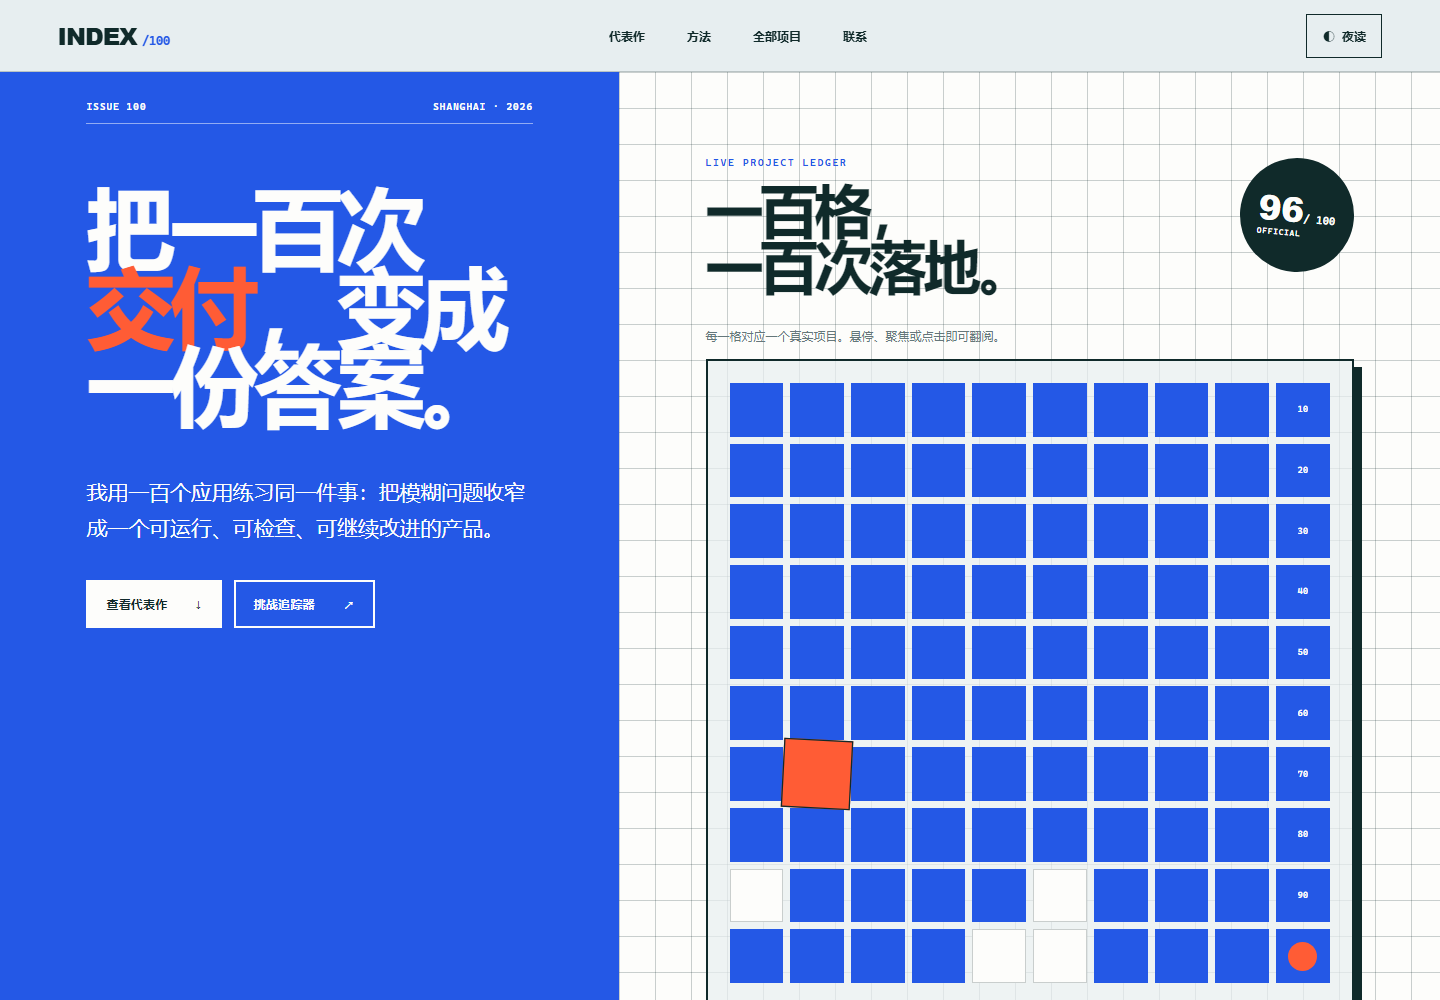
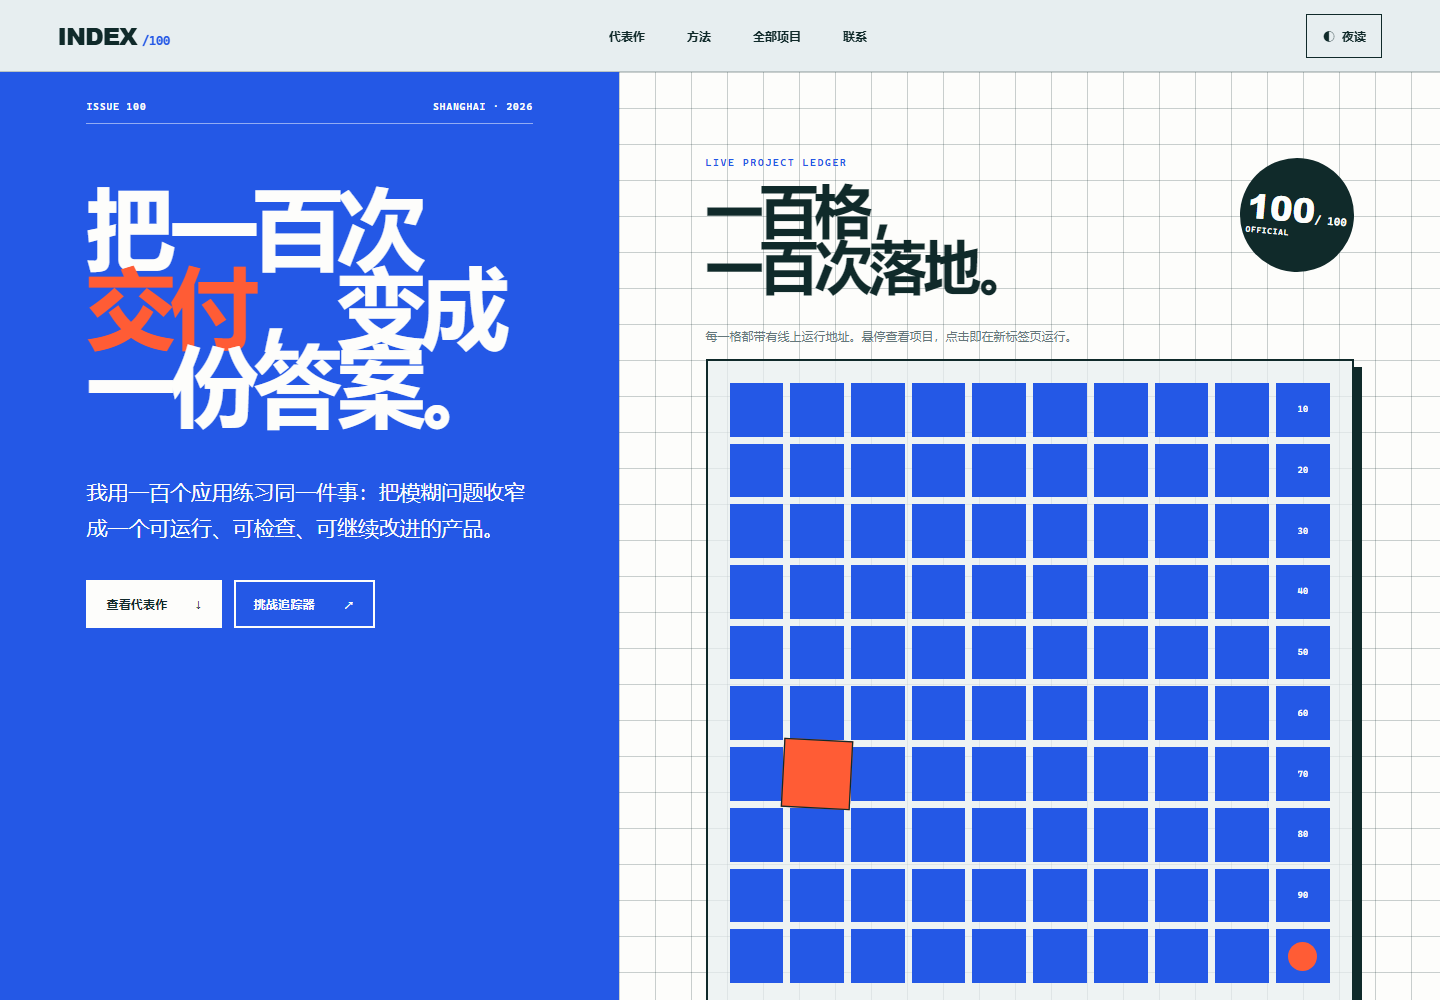
fix: make all app 100 grid cells runnable

diff --git a/apps/100-portfolio/app.js b/apps/100-portfolio/app.js
@@ -74,18 +74,20 @@
     const fragment = document.createDocumentFragment();
     dom.punchboard.replaceChildren();
     state.projects.forEach((project) => {
-      const button = create('button', 'project-cell');
-      button.type = 'button';
-      button.dataset.projectId = project.id;
-      button.dataset.status = project.status;
-      button.setAttribute('role', 'gridcell');
-      button.setAttribute('aria-label', `App ${project.code}：${project.name}，${statusLabel(project)}`);
-      button.title = `${project.code} · ${project.name}`;
-      button.textContent = project.id % 10 === 0 ? project.id : '';
-      button.addEventListener('mouseenter', () => selectProject(project.id));
-      button.addEventListener('focus', () => selectProject(project.id));
-      button.addEventListener('click', () => selectProject(project.id));
-      fragment.appendChild(button);
+      const link = create('a', 'project-cell');
+      link.href = project.link;
+      link.target = '_blank';
+      link.rel = 'noopener noreferrer';
+      link.dataset.projectId = project.id;
+      link.dataset.status = project.status;
+      link.setAttribute('role', 'gridcell');
+      link.setAttribute('aria-label', `运行 App ${project.code}：${project.name}，${statusLabel(project)}（新标签页打开）`);
+      link.title = `${project.code} · ${project.name} · 点击运行`;
+      link.textContent = project.id % 10 === 0 ? project.id : '';
+      link.addEventListener('mouseenter', () => selectProject(project.id));
+      link.addEventListener('focus', () => selectProject(project.id));
+      link.addEventListener('click', () => selectProject(project.id));
+      fragment.appendChild(link);
     });
     dom.punchboard.appendChild(fragment);
     selectProject(projectById(state.selectedId) ? state.selectedId : state.projects.at(-1)?.id);

diff --git a/apps/100-portfolio/portfolio-core.test.js b/apps/100-portfolio/portfolio-core.test.js
@@ -18,6 +18,17 @@ test('parses the root tracker as a safe first-100 project catalog', () => {
   assert.equal(projects.some((project) => project.id === 101), false);
   assert.equal(projects[61].status, 'done');
   assert.match(projects[61].link, /^https:\/\//);
+  assert.equal(projects.every((project) => project.status === 'done'), true);
+  assert.equal(projects.every((project) => project.link.startsWith('https://jokerlixing.github.io/100apps/')), true);
+  assert.equal(new Set(projects.map((project) => project.link)).size, 100);
+  assert.equal(projects[85].link, 'https://jokerlixing.github.io/100apps/apps/086-cli-weather/');
+
+  projects.forEach((project) => {
+    const url = new URL(project.link);
+    const relative = decodeURIComponent(url.pathname.replace(/^\/100apps\/?/, '')).replace(/\/$/, '');
+    const entry = path.resolve(__dirname, '..', '..', relative, 'index.html');
+    assert.equal(fs.existsSync(entry), true, `App ${project.code} deployment must resolve to ${entry}`);
+  });
 });
 
 test('normalizes text, levels, official state, and only safe public links', () => {
@@ -35,7 +46,8 @@ test('normalizes text, levels, official state, and only safe public links', () =
 test('parses numeric official IDs without evaluating tracker JavaScript', () => {
   const source = `
     const IDEAS=[["一号","说明","1","https://example.com/1"],["二号","说明","2"]];
-    const INIT_DONE={1:1,2:true,900:false};
+    const INIT_DONE={1:1,900:false};
+    INIT_DONE[2]="done";
   `;
   const projects = Core.parseTrackerSource(source);
 

diff --git a/apps/100-portfolio/index.html b/apps/100-portfolio/index.html
@@ -56,7 +56,7 @@
           </div>
         </div>
 
-        <p class="board-help" id="board-help">每一格对应一个真实项目。悬停、聚焦或点击即可翻阅。</p>
+        <p class="board-help" id="board-help">每一格都带有线上运行地址。悬停查看项目，点击即在新标签页运行。</p>
         <div class="punchboard" id="punchboard" role="grid" aria-describedby="board-help" aria-label="100 个应用项目索引"></div>
         <div class="board-legend" aria-hidden="true">
           <span><i class="legend-done"></i>已完成</span>

diff --git a/apps/100-portfolio/styles.css b/apps/100-portfolio/styles.css
@@ -258,12 +258,15 @@ button { color: inherit; }
   position: relative;
   min-width: 24px;
   aspect-ratio: 1;
+  display: grid;
+  place-items: center;
   padding: 0;
   color: var(--ledger);
   background: var(--paper);
   border: 1px solid var(--line);
   cursor: pointer;
   font: 700 clamp(6px, .65vw, 9px)/1 var(--mono);
+  text-decoration: none;
   transition: transform .1s ease, background-color .1s ease;
 }
 .project-cell[data-status="done"] { color: #fdfdfb; background: var(--blueprint); border-color: var(--blueprint); }

diff --git a/apps/100-portfolio/portfolio-core.js b/apps/100-portfolio/portfolio-core.js
@@ -75,6 +75,11 @@
       const id = Number(pair[1]);
       if (id >= 1 && id <= MAX_PROJECTS) doneIds.add(id);
     }
+    const assignmentPattern = /\bINIT_DONE\s*\[\s*["']?(\d{1,3})["']?\s*\]\s*=\s*(?:1|true|["']done["'])\s*;/gi;
+    while ((pair = assignmentPattern.exec(text))) {
+      const id = Number(pair[1]);
+      if (id >= 1 && id <= MAX_PROJECTS) doneIds.add(id);
+    }
     return normalizeProjects(ideas, doneIds);
   }
 

diff --git a/apps/100-portfolio/README.md b/apps/100-portfolio/README.md
@@ -7,7 +7,7 @@
 ## 核心功能
 
 - 从根追踪器读取最新的前 100 个项目，不复制第二份官方进度
-- 10×10 项目打孔索引用真实项目状态编码，可悬停、聚焦和点击翻阅
+- 10×10 项目打孔索引内置 100 个唯一部署地址，可悬停预览并点击直接运行
 - 按项目名称、说明、编号、难度和完成状态组合筛选
 - 项目详情弹窗展示难度、状态、说明和公开访问入口
 - 下载当前作品清单为 JSON，方便备份或二次整理
@@ -42,7 +42,7 @@ node --test apps/100-portfolio/portfolio-core.test.js
 node apps/100-portfolio/qa/browser-smoke.mjs
 ```
 
-浏览器验收会检查真实追踪器加载、100 个项目格、项目选择、组合筛选、详情弹窗、JSON 导出、焦点样式、移动端 44px 触控格、页面溢出和运行时错误，并更新以下视觉证据：
+浏览器验收会检查真实追踪器加载、100 个唯一运行链接、项目选择、组合筛选、详情弹窗、JSON 导出、焦点样式、移动端 44px 触控格、页面溢出和运行时错误，并更新以下视觉证据：
 
 - `assets/screenshot-desktop.png`
 - `assets/screenshot-archive.png`
